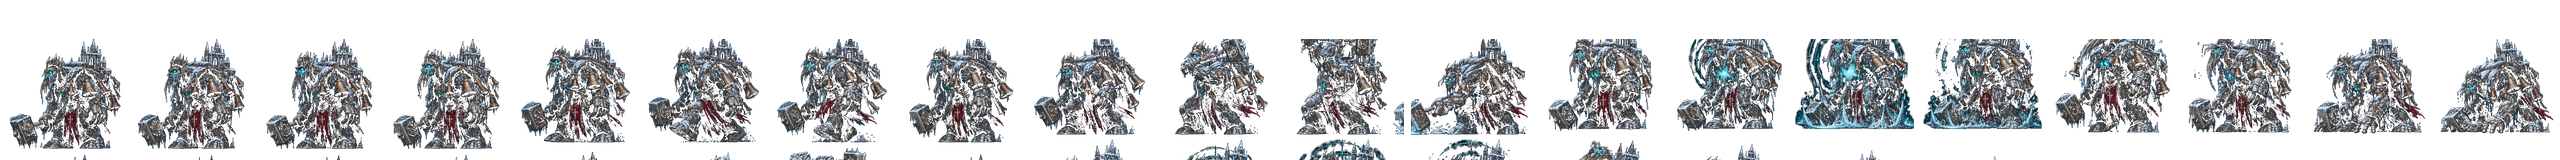
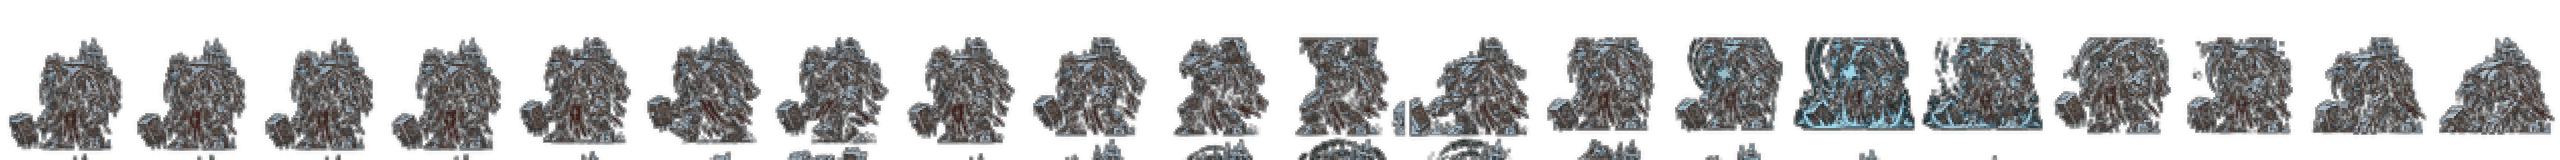
art: remaster final bosses as coherent pixel art

diff --git a/tools/remaster-bosses-pixel-v1.py b/tools/remaster-bosses-pixel-v1.py
@@ -1,0 +1,52 @@
+#!/usr/bin/env python3
+"""Remaster the eight boss atlases on a consistent 2x pixel grid.
+
+The existing animation timing and 20-frame layout are part of the runtime
+contract. This pass only changes the visual sampling, palette and silhouette
+edge, so combat and frame selection remain untouched.
+"""
+from pathlib import Path
+from PIL import Image, ImageFilter
+
+ROOT=Path(__file__).resolve().parents[1]
+ASSETS=ROOT/'assets'
+BOSSES={
+    'warden-v14.png':(34,58,67), 'king-v21.png':(82,54,38),
+    'mother-v20.png':(78,39,72), 'archivist-v22.png':(79,63,43),
+    'bride-v25.png':(35,77,78), 'gardener-v26.png':(46,76,39),
+    'bellgiant-v29.png':(84,57,35), 'firstwitness-v30.png':(91,40,31),
+}
+
+def remaster(path, accent):
+    src=Image.open(path).convert('RGBA')
+    if src.size!=(2560,160): raise SystemExit(f'{path.name}: tamaño inesperado {src.size}')
+    out=Image.new('RGBA',src.size,(0,0,0,0))
+    for i in range(20):
+        frame=src.crop((i*128,0,(i+1)*128,160))
+        alpha=frame.getchannel('A')
+        # Pixel grid 2x: reduce the source before enlarging with nearest-neighbour.
+        rgb=frame.convert('RGB').resize((64,80),Image.Resampling.LANCZOS)
+        rgb=rgb.quantize(colors=28,method=Image.Quantize.MEDIANCUT).convert('RGB')
+        pix=rgb.load()
+        ar,ag,ab=accent
+        for y in range(80):
+            for x in range(64):
+                r,g,b=pix[x,y]
+                # Pull shadows toward the encounter's authored accent without
+                # flattening highlights or the sprite's original identity.
+                lum=(r+g+b)/3
+                if lum<92:
+                    pix[x,y]=(int(r*.72+ar*.28),int(g*.72+ag*.28),int(b*.72+ab*.28))
+        rgb=rgb.resize((128,160),Image.Resampling.NEAREST)
+        mask=alpha.resize((64,80),Image.Resampling.LANCZOS).resize((128,160),Image.Resampling.NEAREST)
+        # One-pixel stepped edge keeps the sprite readable against dark rooms.
+        edge=mask.filter(ImageFilter.MaxFilter(3))
+        edge=Image.eval(edge,lambda v: min(v,105))
+        rgba=Image.merge('RGBA',(*rgb.split(),mask))
+        under=Image.new('RGBA',(128,160),(8,10,14,0)); under.putalpha(edge)
+        out.alpha_composite(under,(i*128,0));out.alpha_composite(rgba,(i*128,0))
+    out.save(path,optimize=True)
+
+for name,accent in BOSSES.items():
+    remaster(ASSETS/name,accent)
+    print(name, (ASSETS/name).stat().st_size)
